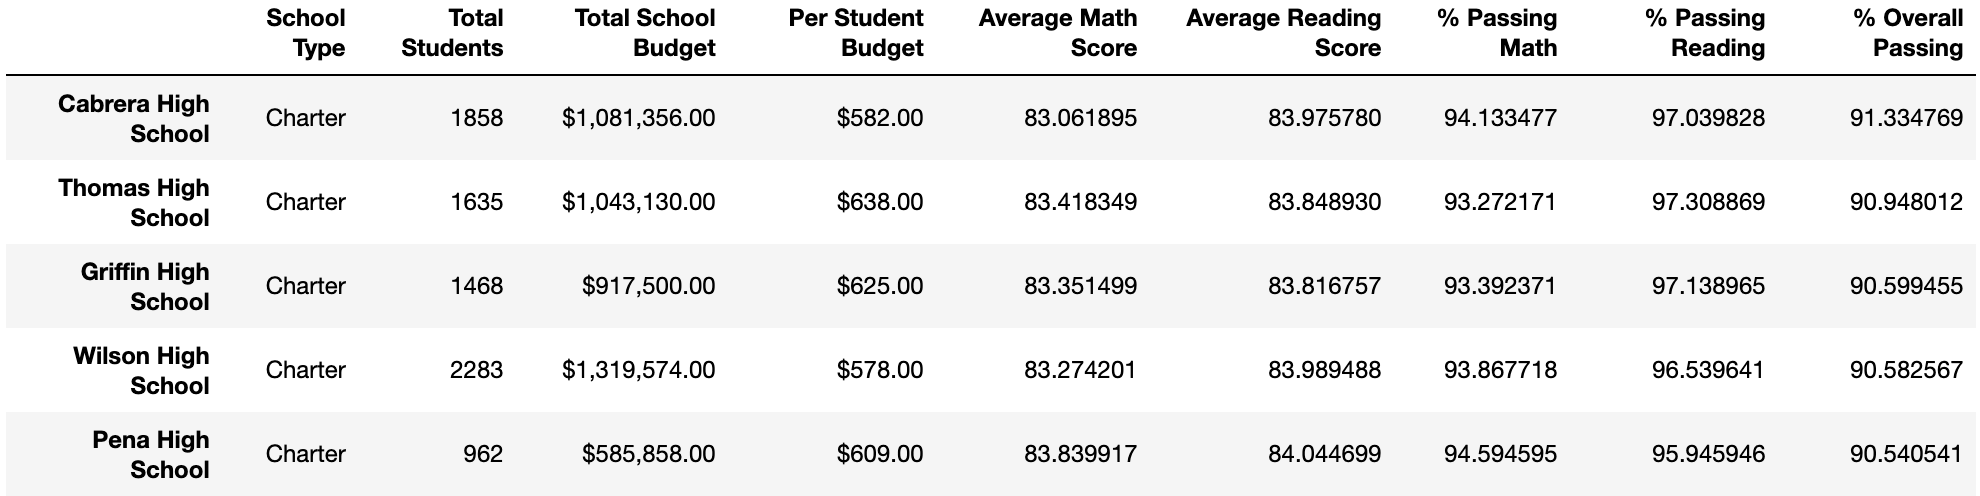
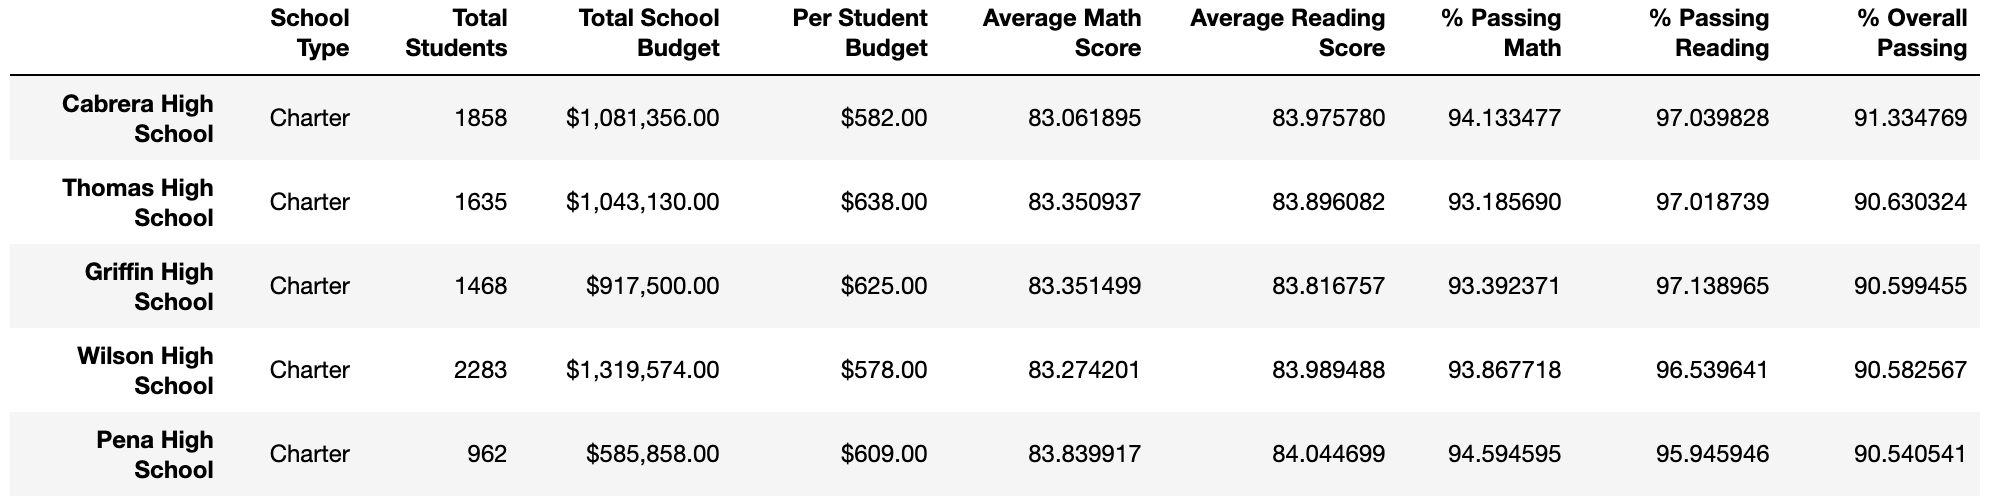
fixed screeshot titles

diff --git a/Challenge/challenge_readme.md b/Challenge/challenge_readme.md
@@ -7,19 +7,25 @@ Working with Maria, we created six Pandas Dataframes with the data from the scho
 ## Results
 
 * How is the district summary affected? 
-    * Average reading score stayed at 81.9, took a reduction after replacing all ninth grade data with NaNs.
+    * For the district summary, the average reading score stayed at 81.9, but all other metrics took a reduction after replacing all ninth grade data with NaNs.
 
-    INSERT PICTURES HERE
+    ![district summary before](https://github.com/juberr/School_District_Analysis/blob/main/Challenge/screenshots/district%20summary%20before.png?raw=true)
+
+    ![district summary after](https://github.com/juberr/School_District_Analysis/blob/main/Challenge/screenshots/district%20summary%20after.png?raw=true)
 
 * How was the school summary affected? 
-    * Across each metric, Thomas High School is reporting lower grade and passing percentages after replacing all ninth grade data with NaNs.
+    * Across each metric (except average reading score), Thomas High School is reporting lower grades and passing percentages after replacing all ninth grade data with NaNs.
 
-    INSERT PICTURES HERE
+    ![school summary before](https://github.com/juberr/School_District_Analysis/blob/main/Challenge/screenshots/school%20summary%20before.png?raw=true)
+    
+    ![school summary after](https://github.com/juberr/School_District_Analysis/blob/main/Challenge/screenshots/school%20summary%20after.png?raw=true)
 
 * How does replacing the ninth grader's math and reading scores affect Thomas High School’s performance relative to the other schools?
     * After replacing the ninth grader's math and reading scores with NaN values, Thomas High School's performance reamains at second place overall in the district. Though the gap between Thomas High School and Griffin High School Has become significantly closer (90.63 to 90.60)
 
-    INSERT PICTURE HERE
+    ![top schools before](https://github.com/juberr/School_District_Analysis/blob/main/Challenge/screenshots/top%20schools%20before.png?raw=true)
+
+    ![top schools after](https://github.com/juberr/School_District_Analysis/blob/main/Challenge/screenshots/top%20schools%20after.png?raw=true)
 
 * How did replacing ninth grade scores affect:
 
